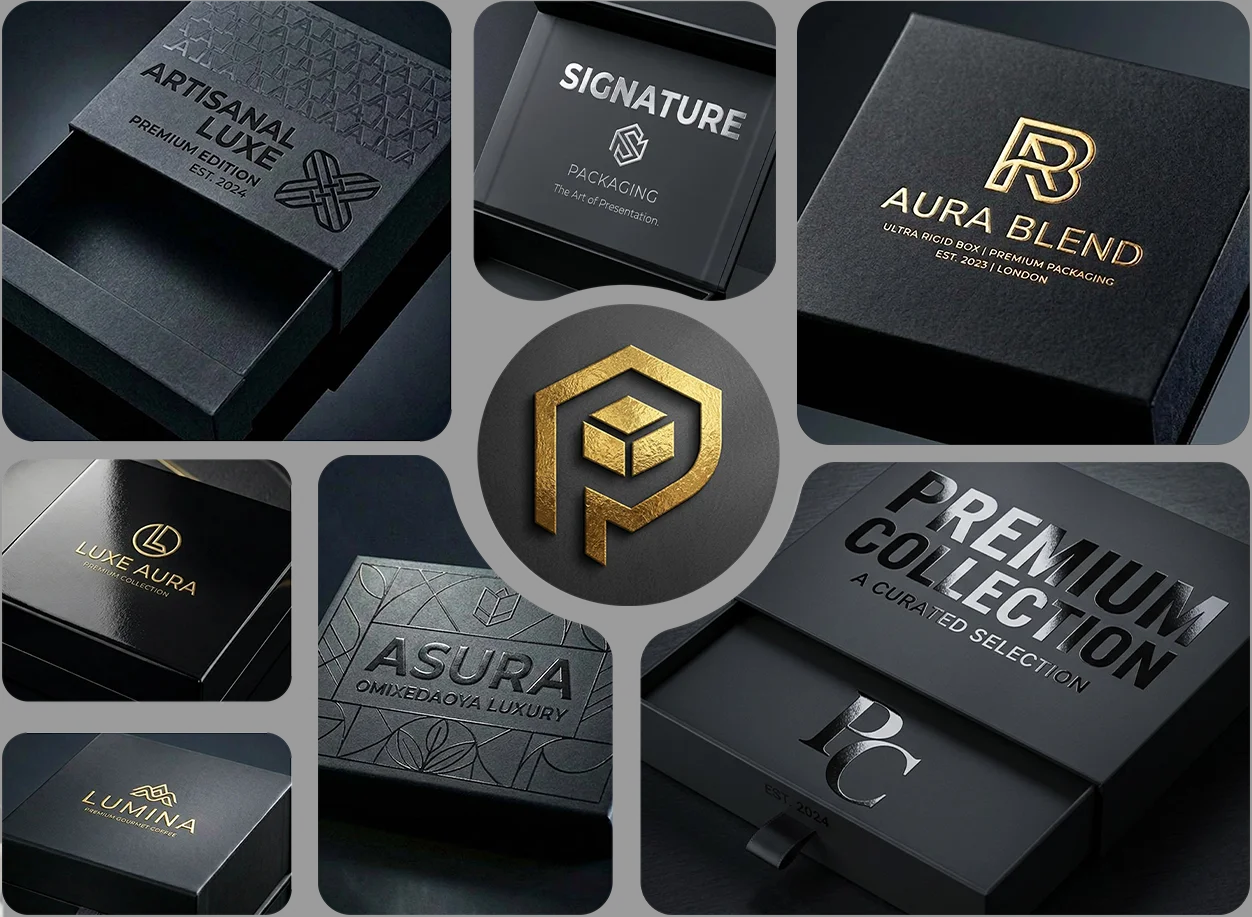
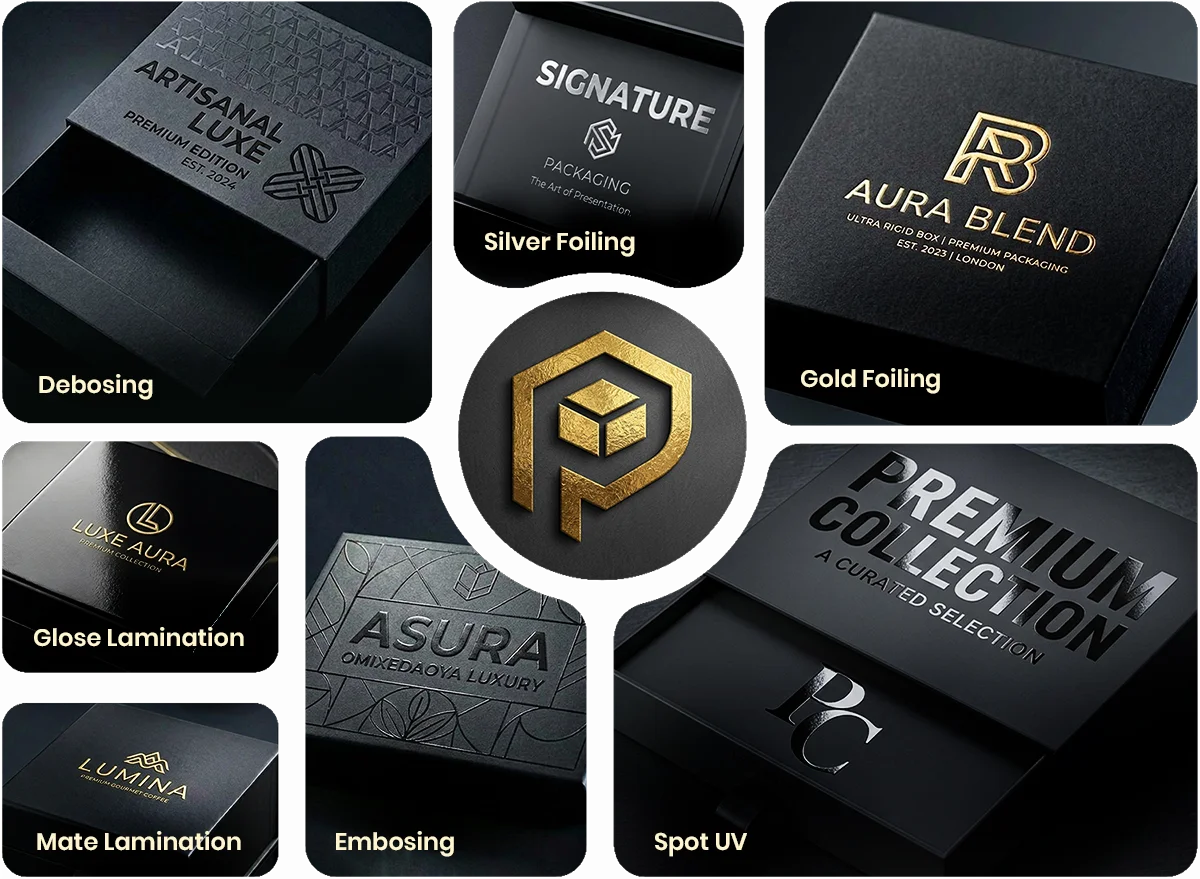
hassan

diff --git a/resources/views/web/header.blade.php b/resources/views/web/header.blade.php
@@ -161,6 +161,42 @@ form.example button {
 
 /*}*/
 
+
+/* ===========================
+   GLOBAL RESPONSIVE TYPOGRAPHY
+   =========================== */
+
+/* Desktop (default) */
+h1 { font-size: 48px !important; }
+h2 { font-size: 36px !important; }
+h3 { font-size: 28px !important; }
+h4 { font-size: 22px !important; }
+h5 { font-size: 20px !important; }
+h6 { font-size: 18px !important; }
+p  { font-size: 16px !important; }
+
+/* Tablet (max-width: 1024px) */
+@media (max-width: 1024px) {
+    h1 { font-size: 40px !important; }
+    h2 { font-size: 30px !important; }
+    h3 { font-size: 24px !important; }
+    h4 { font-size: 20px !important; }
+    h5 { font-size: 18px !important; }
+    h6 { font-size: 16px !important; }
+    p  { font-size: 16px !important; }
+}
+
+/* Mobile (max-width: 768px) */
+@media (max-width: 768px) {
+    h1 { font-size: 32px !important; }
+    h2 { font-size: 26px !important; }
+    h3 { font-size: 22px !important; }
+    h4 { font-size: 18px !important; }
+    h5 { font-size: 16px !important; }
+    h6 { font-size: 15px !important; }
+    p  { font-size: 15px !important; }
+}
+
 </style>
 
 <body>
@@ -792,13 +828,12 @@ function toggleMobileSubmenu(element) {
    
 
  @if(Session::has('success'))
-                    
-                    <center>
-                    
-                    <div  class='alert alert-success'> {{ Session::get('success') }}</div>
-                    </center>
-                    
-                    @endif
+    <div class="container" style="margin-top: 20px; margin-bottom: 20px;">
+        <div class="alert alert-success" style="background-color: #d4edda; color: #155724; border-color: #c3e6cb; padding: 15px; border-radius: 8px; text-align: center; font-weight: 600; box-shadow: 0 4px 6px rgba(0,0,0,0.1);">
+            {{ Session::get('success') }}
+        </div>
+    </div>
+@endif
     <!-- ====================== cmb-Header End ======================  -->
 
 <script>

diff --git a/resources/views/web/home/index.blade.php b/resources/views/web/home/index.blade.php
@@ -96,6 +96,7 @@ h3 {
   border-radius: 50px;
 }/* removed hover: .btn-primary:hover { ... } */
 
+.btn-primary:hover,
 .btn-primary:focus,
 .btn-primary:active,
 .btn-primary:focus-visible {
@@ -782,6 +783,7 @@ h3 {
 
 .sector-info {
   padding: 16px 0 0 0;
+  text-align: center;
 }
 
 .sector-info h3 {
@@ -1369,6 +1371,17 @@ h3 {
   display: flex;
   align-items: center;
   justify-content: center;
+  transition: all 0.3s ease;
+}
+
+.testimonial-nav button:hover,
+.testimonial-nav button:active,
+.testimonial-nav button:focus,
+.testimonial-nav button.active {
+  border-color: var(--accent-gold) !important;
+  color: var(--accent-gold) !important;
+  outline: none !important;
+  box-shadow: none !important;
 }
 
 /* @media (max-width: 992px) {
@@ -1650,8 +1663,8 @@ h3 {
 .form-group {
   display: flex;
   flex-direction: column;
-  gap: 6px;
-  height: 76px;
+  gap: 0px;
+  height: 38px;
 }
 
 .form-group.textarea-group {
@@ -1661,6 +1674,7 @@ h3 {
 }
 
 .form-group label {
+  display: none;
   font-size: 15px;
   color: #ffffff;
   font-weight: 300;
@@ -2528,9 +2542,7 @@ section + section {
   .why-image-container,
   .why-image,
   .why-image img {
-    height: auto !important;
-    width: 100% !important;
-    max-width: 100% !important;
+    display: none !important;
   }
 
   .stats-row {
@@ -2761,9 +2773,7 @@ section + section {
   }
 
   .why-image img {
-    width: min(100%, 420px) !important;
-    height: min(520px, 70vw) !important;
-    object-fit: cover;
+    display: none !important;
   }
 }
 
@@ -2773,9 +2783,7 @@ section + section {
   }
 
   .why-image img {
-    width: min(100%, 390px) !important;
-    height: min(470px, 112vw) !important;
-    object-fit: cover;
+    display: none !important;
   }
 }
 
@@ -4138,8 +4146,8 @@ section + section {
 .form-group {
   display: flex;
   flex-direction: column;
-  gap: 6px;
-  height: auto;
+  gap: 0px;
+  height: 38px;
 }
 .form-group.textarea-group {
   height: auto;
@@ -4147,7 +4155,7 @@ section + section {
   width: 100%;
 }
 .form-group > label {
-  display: block;
+  display: none;
   font-size: 13px;
   color: #ffffff;
   font-weight: 300;
@@ -4342,8 +4350,7 @@ section + section {
 }
 @media (max-width: 768px) {
   .quote-steps-col {
-    grid-template-columns: 1fr;
-    padding: 40px 20px;
+    display: none !important;
   }
   .quote-form-col {
     padding: 35px 20px;

diff --git a/resources/views/web/product/productdetails.blade.php b/resources/views/web/product/productdetails.blade.php
@@ -186,18 +186,19 @@ a { text-decoration: none; color: inherit; }
 .product-pfr-section { padding: 0px 0; background-color: var(--product-bg);  }
 .pfr-wrapper { display: grid; grid-template-columns: 1.2fr 1fr; gap: 60px; align-items: center; }
 .pfr-features { display: grid; grid-template-columns: 1fr 1fr; gap: 45px 30px; }
-.pfr-feature { display: flex; flex-direction: column; gap: 12px; }
-.pfr-icon { color: var(--product-gold); }
-.pfr-icon svg { width: 32px; height: 32px; }
-.pfr-feature h4 { font-size: 15px; font-weight: 700; color: #fff; margin: 0 0 6px 0; }
-.pfr-feature p { font-size: 12.5px; color: rgba(255,255,255,0.65); line-height: 1.6; margin: 0; }
+.pfr-feature { display: flex; flex-direction: column; align-items: center; text-align: center; background-color: #1f1f1f; border: 1px solid rgba(255,255,255,0.05); border-radius: 16px; padding: 30px 20px; gap: 12px; transition: transform 0.3s; }
+.pfr-feature:hover { transform: translateY(-5px); }
+.pfr-icon { color: var(--product-gold); display: flex; justify-content: center; margin-bottom: 5px; }
+.pfr-icon img, .pfr-icon svg { width: 40px; height: 40px; }
+.pfr-feature h4 { font-size: 16px; font-weight: 700; color: #fff; margin: 0; }
+.pfr-feature p { font-size: 13.5px; color: rgba(255,255,255,0.65); line-height: 1.6; margin: 0; }
 
 .pfr-reviews { background-color: #1f1f1f; border-radius: 20px; padding: 45px 25px; display: flex; flex-direction: column; justify-content: center; position: relative; min-width: 0; width: 100%; box-sizing: border-box; }
 .pfr-reviews-inner { display: flex; align-items: center; justify-content: center; position: relative; padding: 0 55px; width: 100%; box-sizing: border-box; }
 .pfr-nav { position: absolute; top: calc(50% + 15px); transform: translateY(-50%); z-index: 10; background: #1f1f1f; border: 1px solid rgba(255,255,255,0.1); width: 36px; height: 36px; border-radius: 50%; color: rgba(255,255,255,0.5); font-size: 20px; display: flex; align-items: center; justify-content: center; cursor: pointer; transition: all 0.3s; }
 .pfr-nav.prev { left: 5px; }
 .pfr-nav.next { right: 5px; }
-.pfr-nav:hover { border-color: var(--product-gold); color: var(--product-gold); }
+.pfr-nav:hover, .pfr-nav:active, .pfr-nav:focus, .pfr-nav.active { border-color: var(--product-gold) !important; color: var(--product-gold) !important; outline: none !important; box-shadow: none !important; }
 .pfr-slider-wrap { overflow: hidden; width: 100%; padding-top: 35px; margin-top: -35px; box-sizing: border-box; }
 .pfr-slider { display: flex; width: 100%; transition: transform 0.5s ease; }
 .pfr-slide { flex: 0 0 100%; width: 100%; border: 1px solid rgba(255,193,7,0.15); border-radius: 12px; padding: 45px 30px 30px; text-align: center; position: relative; box-sizing: border-box; }
@@ -311,11 +312,11 @@ a { text-decoration: none; color: inherit; }
     .product-submit-btn { font-size: 4vw; padding: 3.5vw 8vw; }
 
     .pfr-features { grid-template-columns: 1fr; gap: 30px; }
-    .pfr-reviews { padding: 8vw 5vw; margin-top: 5vw; }
-    .pfr-reviews-inner { padding: 0 12vw; }
-    .pfr-nav { top: calc(50% + 5vw); width: 8vw; height: 8vw; font-size: 4vw; }
-    .pfr-nav.prev { left: 2vw; }
-    .pfr-nav.next { right: 2vw; }
+    .pfr-reviews { padding: 30px 20px; margin-top: 20px; }
+    .pfr-reviews-inner { padding: 0 0 70px 0; }
+    .pfr-nav { top: auto; bottom: 0; transform: none; width: 45px; height: 45px; font-size: 20px; }
+    .pfr-nav.prev { left: calc(50% - 55px); }
+    .pfr-nav.next { right: auto; left: calc(50% + 10px); }
     .pfr-slide { padding: 10vw 4vw 6vw; }
     .product-tabs-wrapper { margin-left: -4.5vw; margin-right: -4.5vw; margin-bottom: 6vw; }
     .product-tabs-nav { gap: 3vw; overflow-x: auto; padding: 0 4.5vw; scroll-snap-type: x mandatory; }
@@ -1138,15 +1139,8 @@ a { text-decoration: none; color: inherit; }
                         </div>
                         <div class="iq-row-2">
                             <div class="iq-group">
-                                <label>Box Style *</label>
-                                <select name="box_style" required>
-                                    <option value="" disabled selected>Select your box style</option>
-                                    <option value="Mailer Box">Mailer Box</option>
-                                    <option value="Rigid Box">Rigid Box</option>
-                                    <option value="Folding Carton">Folding Carton</option>
-                                    <option value="Shipping Box">Shipping Box</option>
-                                    <option value="Other">Other</option>
-                                </select>
+                                <label>Product Name *</label>
+                                <input type="text" name="product_name" value="{{ $p->title ?? '' }}" placeholder="Enter product name" required>
                             </div>
                             <div class="iq-group">
                                 <label>Quantity *</label>

diff --git a/resources/views/web/categories/categories.blade.php b/resources/views/web/categories/categories.blade.php
@@ -3886,7 +3886,7 @@ img {
 /* Dimensions Row: Width, Length, Depth, Unit */
 .dimensions-grid {
   grid-template-columns: repeat(4, 1fr);
-  max-width: 693px;
+  width: 100%;
 }
 
 /* Dropdown selections: Material, Colors, Addons */
@@ -3908,19 +3908,19 @@ img {
 
 .triple-grid {
   grid-template-columns: repeat(3, 1fr);
-  max-width: 692px;
+  width: 100%;
 }
 
 .quantity-upload-grid {
   grid-template-columns: repeat(2, 1fr);
-  max-width: 691.13px;
+  width: 100%;
 }
 
 .form-group {
   display: flex;
   flex-direction: column;
   gap: 0px;
-  height: 38px; /* Fit perfectly to input height */
+  height: 38px;
 }
 
 .form-group.textarea-group {
@@ -3930,10 +3930,11 @@ img {
 }
 
 .form-group > label {
-  display: none; /* Hide labels above inputs */
+  display: none;
   font-size: 13px;
-  color: #ffffff; /* Updated: Changed labels to clean white color */
-  font-weight: 300;
+  color: #ffffff;
+  font-weight: 500;
+  margin-bottom: 5px;
 }
 
 /* --- Component Fields Controls --- */
@@ -4188,8 +4189,7 @@ img {
 }
 @media (max-width: 768px) {
   .quote-steps-col {
-    grid-template-columns: 1fr;
-    padding: 40px 20px;
+    display: none !important;
   }
   .quote-form-col {
     padding: 35px 20px;

diff --git a/resources/views/web/categories/allcategories.blade.php b/resources/views/web/categories/allcategories.blade.php
@@ -2355,25 +2355,25 @@ body {
 /* Dimensions Row: Width, Length, Depth, Unit */
 .dimensions-grid {
   grid-template-columns: repeat(4, 1fr);
-  max-width: 693px;
+  width: 100%;
 }
 
 /* Dropdown selections: Material, Colors, Addons */
 .triple-grid {
   grid-template-columns: repeat(3, 1fr);
-  max-width: 692px;
+  width: 100%;
 }
 
 .quantity-upload-grid {
   grid-template-columns: repeat(2, 1fr);
-  max-width: 691.13px;
+  width: 100%;
 }
 
 .form-group {
   display: flex;
   flex-direction: column;
-  gap: 6px;
-  height: 76px; /* Explicit height specification constraints */
+  gap: 0px;
+  height: 38px;
 }
 
 .form-group.textarea-group {
@@ -2383,6 +2383,7 @@ body {
 }
 
 .form-group label {
+  display: none;
   font-size: 15px;
   color: #ffffff; /* Updated: Changed labels to clean white color */
   font-weight: 300;
@@ -2522,8 +2523,7 @@ body {
 }
 @media (max-width: 768px) {
   .quote-steps-col {
-    grid-template-columns: 1fr;
-    padding: 40px 20px;
+    display: none !important;
   }
   .quote-form-col {
     padding: 35px 20px;

diff --git a/app/Http/Controllers/HomeController.php b/app/Http/Controllers/HomeController.php
@@ -389,7 +389,11 @@ private function sendQuoteEmail($data, $file = null)
             ->setContentType($file->getMimeType()));
     }
 
-    (new \Swift_Mailer($transport))->send($message);
+    try {
+        (new \Swift_Mailer($transport))->send($message);
+    } catch (\Exception $e) {
+        \Log::error('Mail sending failed: ' . $e->getMessage());
+    }
 }
 
 

diff --git a/resources/views/web/trustbar.blade.php b/resources/views/web/trustbar.blade.php
@@ -106,8 +106,7 @@
         display: none;
     }
     .tb-reviews {
-        justify-content: center;
-        width: 100%;
+        display: none;
     }
     .tb-stars svg {
         width: 14px;